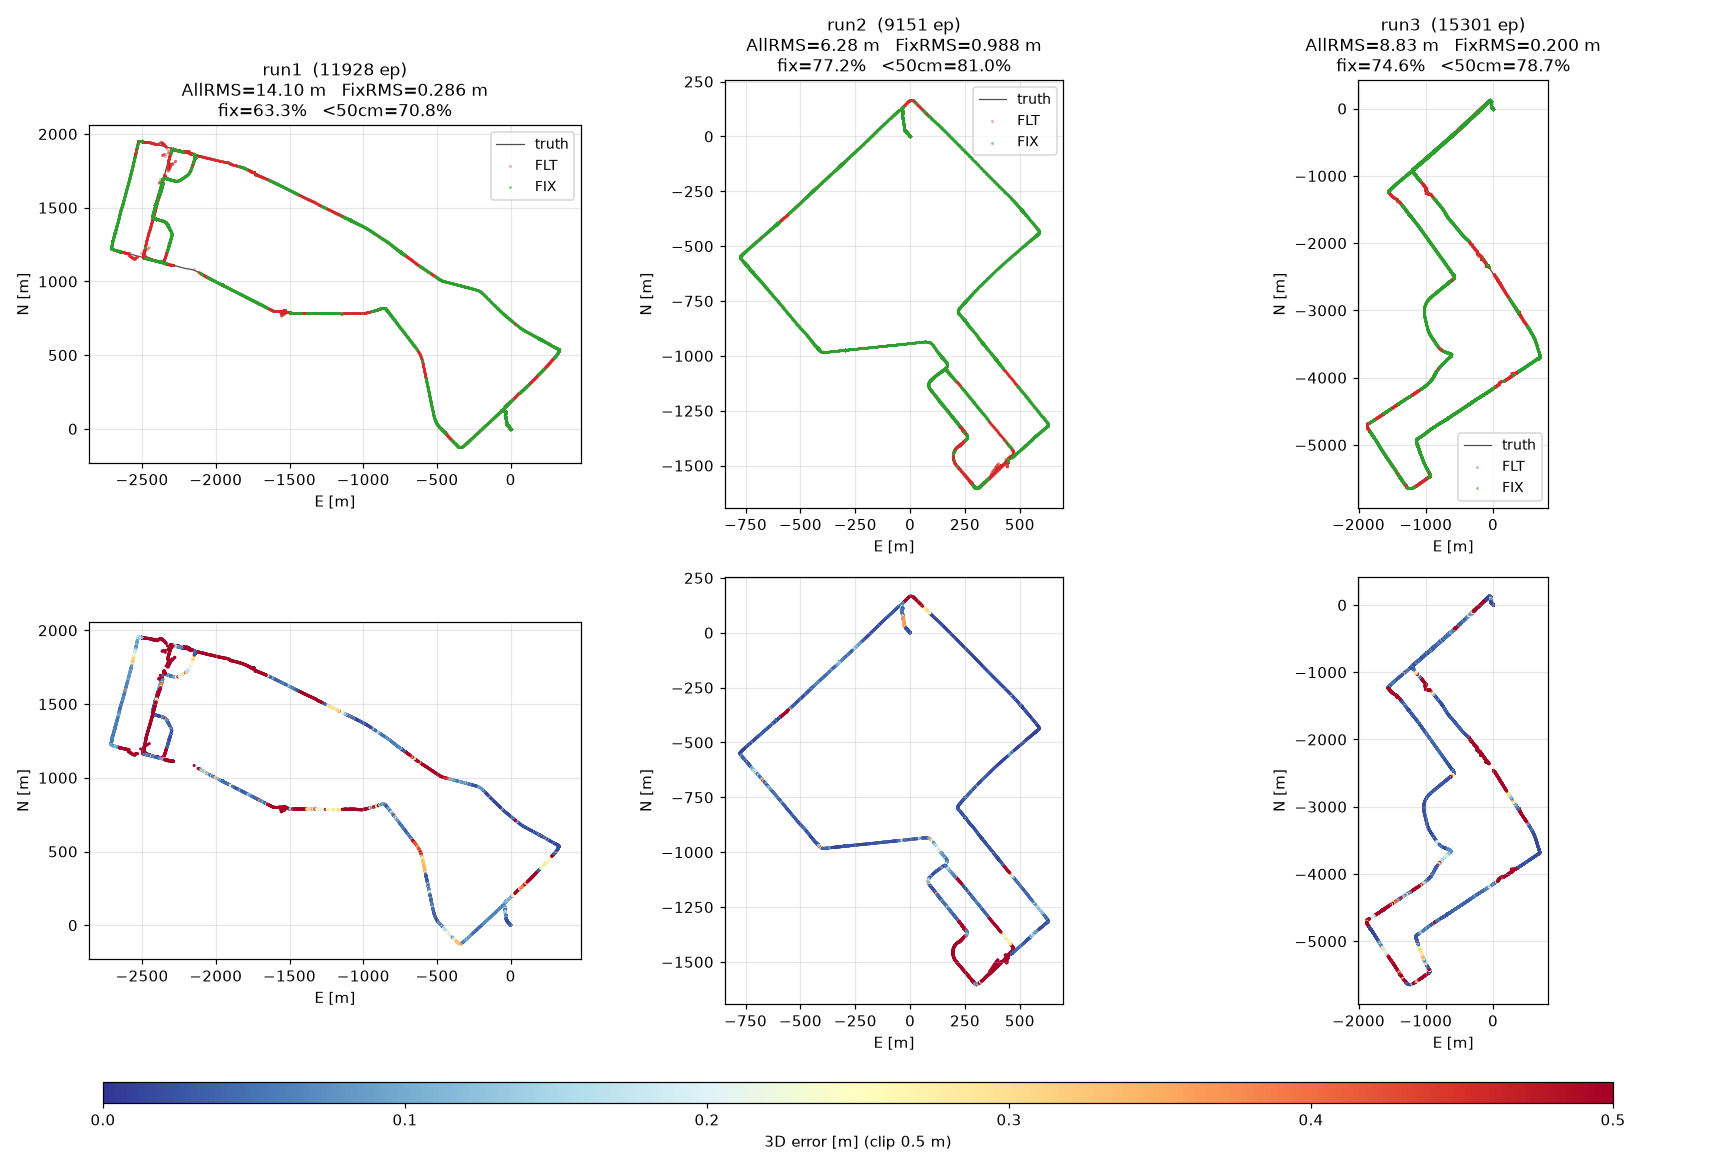
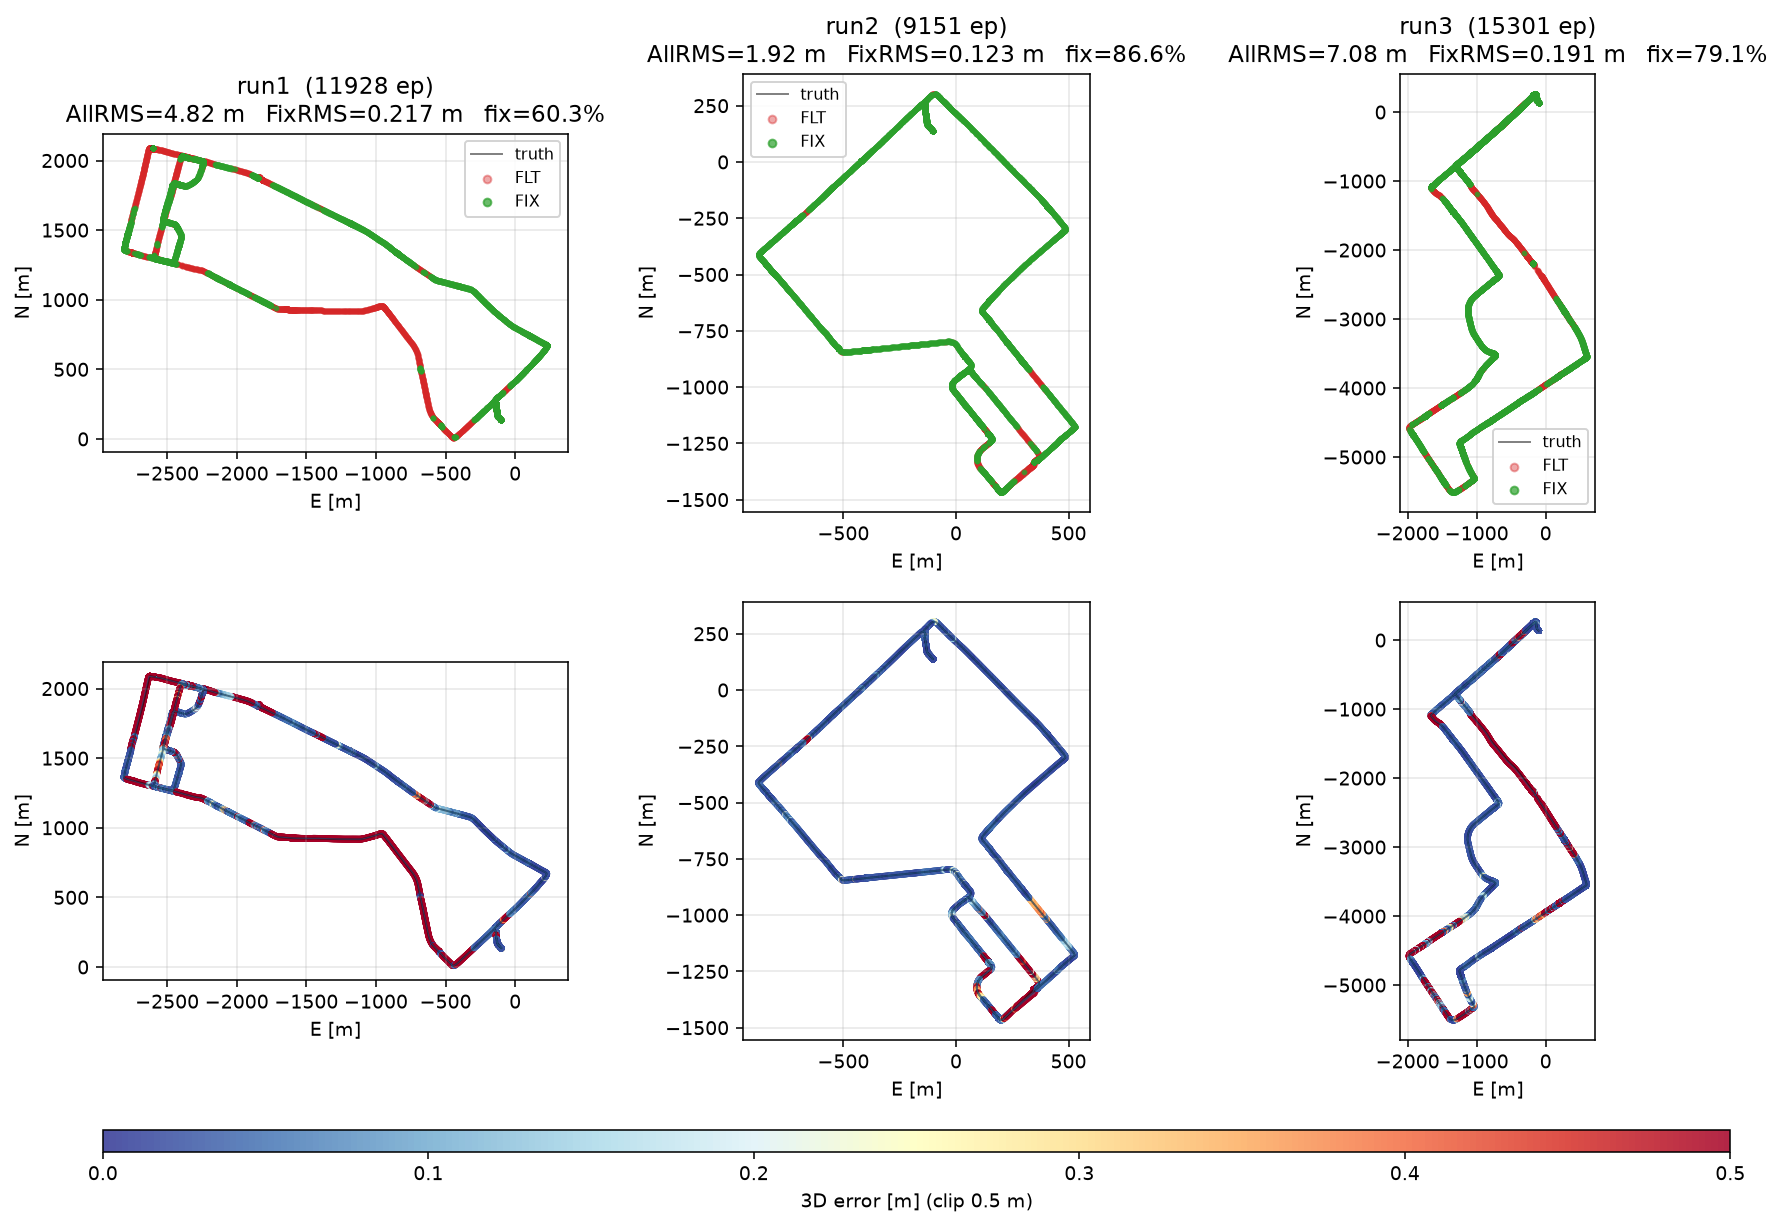
docs,factors: update README/plots for 6-run defaults, use 2D NhcFactor and direct gyro-bias ZARU

diff --git a/src/gnss_fgo/pipeline/measurement_factors.py b/src/gnss_fgo/pipeline/measurement_factors.py
@@ -1,7 +1,5 @@
 """Stage C1 — assemble measurement factors (DDPR, DDCP, SD Doppler, NHC, ZUPT)."""
 
-import numpy as np
-
 from ..factors import doppler_sd as _tc_doppler_sd
 from ..factors import factors as _tc_factors
 from ..factors import nhc as _tc_nhc
@@ -21,17 +19,7 @@ def _build_factor_block(tc, epoch):
     _tc_doppler_sd.add_sd_doppler_factors(tc, epoch)
 
     if _tc_nhc.add_nhc_factor(tc, epoch.graph, epoch.key_idx,
-                              _horizontal_speed(tc, epoch),
                               gyro_mean_rh=epoch.gyro_mean):
         info['nhc'] = True
 
     _tc_zupt.add_zupt_factors_for_stage(tc, epoch)
-
-
-def _horizontal_speed(tc, epoch):
-    try:
-        return float(np.linalg.norm(
-            np.array(epoch.estimate.atVector(tc.Vel(epoch.key_idx - 1)))[:2]))
-    except RuntimeError:
-        return float(np.linalg.norm(
-            np.array(epoch.pred_nav.velocity())[:2]))

diff --git a/src/gnss_fgo/factors/zupt.py b/src/gnss_fgo/factors/zupt.py
@@ -54,12 +54,12 @@ def add_zupt_factors(tc, graph, key_idx, imu_idx_prev, n_imu, info):
         info['zupt'] = True
         any_added = True
     sig_r = float(cfg.zupt_sigma_zero_rotation)
-    if sig_r > 0 and key_idx > 0:
-        sigmas_pose = np.array([sig_r, sig_r, sig_r, 1e3, 1e3, 1e3])
-        graph.add(gtsam.BetweenFactorPose3(
-            tc.Xpose(key_idx - 1), tc.Xpose(key_idx),
-            gtsam.Pose3(),
-            gtsam.noiseModel.Diagonal.Sigmas(sigmas_pose)))
+    if sig_r > 0:
+        sigmas_bias = np.array([np.inf, np.inf, np.inf, sig_r, sig_r, sig_r])
+        graph.add(gtsam.PriorFactorConstantBias(
+            tc.Bias(key_idx),
+            gtsam.imuBias.ConstantBias(np.zeros(3), stats['gyro_mean']),
+            gtsam.noiseModel.Diagonal.Sigmas(sigmas_bias)))
         info['zaru'] = True
         any_added = True
     return any_added

diff --git a/src/gnss_fgo/factors/nhc.py b/src/gnss_fgo/factors/nhc.py
@@ -6,7 +6,7 @@ import gtsam
 from ..utils import parse_lever
 
 
-def add_nhc_factor(tc, graph, key_idx, speed, gyro_mean_rh=None):
+def add_nhc_factor(tc, graph, key_idx, gyro_mean_rh=None):
     """Non-Holonomic Constraint at rear-axle pivot in the FLU body frame."""
     sig_lat = float(tc.cfg.nhc_sigma_lat)
     sig_vert = float(tc.cfg.nhc_sigma_vert)
@@ -24,9 +24,8 @@ def add_nhc_factor(tc, graph, key_idx, speed, gyro_mean_rh=None):
     else:
         omega = np.zeros(3)
     noise = gtsam.noiseModel.Diagonal.Sigmas(
-        np.array([1e3, sig_lat, sig_vert]))
+        np.array([sig_lat, sig_vert]))
     graph.add(gtsam.NhcFactor(
         tc.Xpose(key_idx), tc.Vel(key_idx), omega,
-        np.asarray(lever, dtype=float),
-        float(speed), noise, np.zeros(3)))
+        np.asarray(lever, dtype=float), noise))
     return True

diff --git a/tests/test_jacobians.py b/tests/test_jacobians.py
@@ -24,9 +24,9 @@ def enu_frame(base):
 
 
 def test_nhc_factor():
-    noise = gtsam.noiseModel.Diagonal.Sigmas(np.array([1e3, 0.3, 0.1]))
+    noise = gtsam.noiseModel.Diagonal.Sigmas(np.array([0.3, 0.1]))
     f = gtsam.NhcFactor(1, 2, np.array([0.02, -0.01, 0.3]),
-                        np.array([0.5, 0.1, -0.3]), 8.0, noise, np.zeros(3))
+                        np.array([0.5, 0.1, -0.3]), noise)
     v = gtsam.Values()
     v.insert(1, gtsam.Pose3(gtsam.Rot3.RzRyRx(0.3, -0.2, 1.1),
                             gtsam.Point3(1, 2, 3)))

diff --git a/src/gnss_fgo/utils/imu.py b/src/gnss_fgo/utils/imu.py
@@ -183,6 +183,7 @@ def compute_zupt_stats(
         'gyro_std': float(np.sqrt(max(gyro_var, 0.0))),
         'gyro_median': float(np.median(gyro_resid_norm)),
         'acc_norm_mean': float(np.linalg.norm(acc_mean_corr)),
+        'gyro_mean': gyro.mean(axis=0),
     }
 
 

diff --git a/README.md b/README.md
@@ -5,29 +5,29 @@
 *carrier-phase RTK · LAMBDA ambiguity resolution · GTSAM · urban driving · reproducible*
 
 The full RTK chain lives inside the graph: double-differenced
-pseudorange **and carrier phase**, integer ambiguity resolution
-(LAMBDA, exclusion retry, partial AR) with fix-and-hold, FDE, and
+pseudorange **and carrier phase** with Huber M-estimator noise,
+continuous integer ambiguity resolution (LAMBDA + partial AR), and
 100 Hz IMU preintegration — targeting centimeter FIX in deep urban
 canyons, with IMU + single-differenced Doppler bridging NLOS storms
 and tunnels.
 
 ## What's inside
 
-- **RTK in the graph** — DD pseudorange + DD carrier-phase factors on a
-  GTSAM `IncrementalFixedLagSmoother`, ambiguities as float states,
-  clock-free seeding (SD phase − SD code)
-- **Integer ambiguity resolution** — LAMBDA with a dimension-adaptive
-  ratio test, ranked subset retry, fix-and-hold, and
-  geometry/residual acceptance gates
+- **RTK in the graph** — DD pseudorange + DD carrier-phase factors with
+  Huber robust noise on a QR-factorized GTSAM
+  `IncrementalFixedLagSmoother`, float ambiguities chained via per-epoch
+  random walk, clock-free seeding (SD phase − SD code)
+- **Integer ambiguity resolution** — continuous LAMBDA + partial AR
+  with a dimension-adaptive fixed-failure-rate ratio test (FFRT)
 - **Tight IMU coupling** — 100 Hz `CombinedImuFactor` preintegration;
   NHC and ZUPT vehicle constraints (C++ factors with exact Jacobians)
 - **Velocity through outages** — between-satellite single-differenced
   Doppler (clock-free), injected on every epoch
-- **Integrity & recovery** — LLI + geometry-free slip detection,
-  post-fit FDE, and an escalation ladder from CP-hold to warm reset
-- **Contributed upstream** — the DD, Doppler and undifferenced GNSS
-  factors are merged into
-  [GTSAM](https://github.com/borglab/gtsam) itself; see the
+- **Integrity & recovery** — LLI + geometry-free + Melbourne-Wübbena
+  cycle-slip detection, and automatic phase-2 warm reset on divergence
+- **Contributed upstream** — the DD, Doppler, SD Doppler, and NHC
+  factors are developed for and contributed to
+  [GTSAM](https://github.com/borglab/gtsam); see the
   [gtsam.org post](https://gtsam.org/2026/06/10/rtk-gnss-double-difference.html)
   for the technique
 
@@ -40,12 +40,12 @@ urban-Nagoya drives
 
 | run         | length    | AllRMS  | median  | FixRMS  | fix %  | <50 cm |
 |-------------|-----------|---------|---------|---------|--------|--------|
-| tokyo run1  | 11928 ep  | 14.10 m | 0.099 m | 0.29 m  | 63.3 % | 70.8 % |
-| tokyo run2  |  9151 ep  |  6.28 m | 0.041 m | 0.99 m  | 77.2 % | 81.0 % |
-| tokyo run3  | 15301 ep  |  8.83 m | 0.050 m | 0.20 m  | 74.6 % | 78.7 % |
-| nagoya run1 |  7602 ep  | 14.65 m | 0.138 m | 0.15 m  | 57.9 % | 72.5 % |
-| nagoya run2 |  9451 ep  | 27.07 m | 0.245 m | 0.36 m  | 49.7 % | 54.0 % |
-| nagoya run3 |  5201 ep  | 19.43 m | 0.685 m | 1.81 m  | 46.2 % | 48.1 % |
+| tokyo run1  | 11928 ep  |  4.82 m | 0.053 m | 0.22 m  | 60.3 % | 62.1 % |
+| tokyo run2  |  9151 ep  |  1.92 m | 0.034 m | 0.12 m  | 86.6 % | 88.2 % |
+| tokyo run3  | 15301 ep  |  7.08 m | 0.034 m | 0.19 m  | 79.1 % | 80.7 % |
+| nagoya run1 |  7602 ep  |  6.55 m | 0.131 m | 0.15 m  | 73.1 % | 75.7 % |
+| nagoya run2 |  9451 ep  |  4.94 m | 0.248 m | 0.53 m  | 55.4 % | 51.1 % |
+| nagoya run3 |  5201 ep  |  5.04 m | 0.690 m | 0.30 m  | 39.9 % | 42.0 % |
 
 
 ![tokyo_defaults](docs/tokyo_defaults.png)
@@ -87,21 +87,21 @@ Packages are the roles:
 
 | Package | Role |
 |---|---|
-| `pipeline/` | the epoch flow: `imu_prediction` → `quality_gate` → `solve` (`measurement_factors` / `update_smoother` / `fix_ambiguities` / `check_postfit`) → `validate_fix` → `report` |
+| `pipeline/` | the epoch flow: `imu_prediction` → `quality_gate` → `solve` (`measurement_factors` / `update_smoother` / `fix_ambiguities`) → `report` |
 | `factors/` | measurement → GTSAM factor builders, one file per family |
-| `ar/` | LAMBDA core, ranked subset retry, fix-and-hold |
-| `integrity/` | slip detection, sanity ladder, outage recovery |
+| `ar/` | LAMBDA + partial AR with dimension-adaptive FFRT |
+| `integrity/` | cycle-slip detection (LLI + GF + MW) and warm-reset recovery |
 | `state/` | records (`SatState`, `EpochData`) and the stage I/O contract |
 
-Phase 1 bootstrap (stationary GNSS-only) is `initialization.py`;
+Phase 1 bootstrap (GNSS-only init) is `initialization.py`;
 `runner.py` owns state and the cssrlib boundary.
 
 ## Configuration
 
-Every `config.py` field is an env var (`DOPPLER_SD_SIGMA`,
-`SIG_PR`, `ZUPT_MAX_SPEED`, …) — see `config.py` for the complete,
-commented list. The example script adds its own env switches
-(`LEVER_ARM`, `MAX_EP`, `SAVE_NPZ`, …).
+Every `config.py` field is an env var (`ERR_A`, `HUBER_K`,
+`DOPPLER_SD_SIGMA`, `AMB_RW_SIGMA`, `IMU_GRADE`, …) — see `config.py`
+for the complete 25-parameter list. The example script adds its own
+env switches (`LEVER_ARM`, `MAX_EP`, `SAVE_NPZ`, …).
 
 ## License
 
